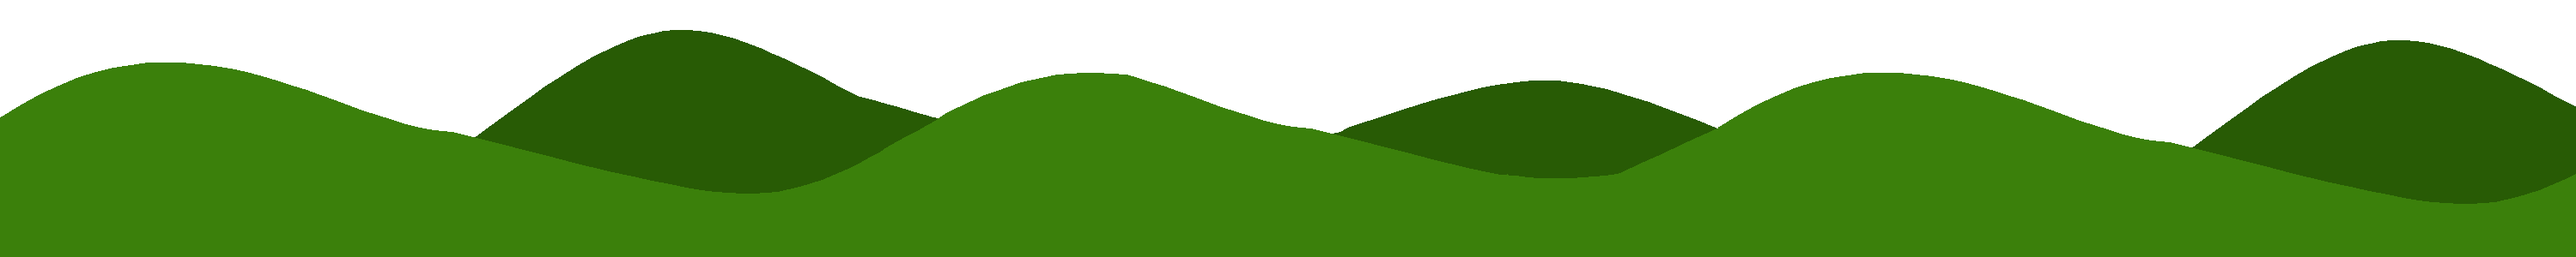
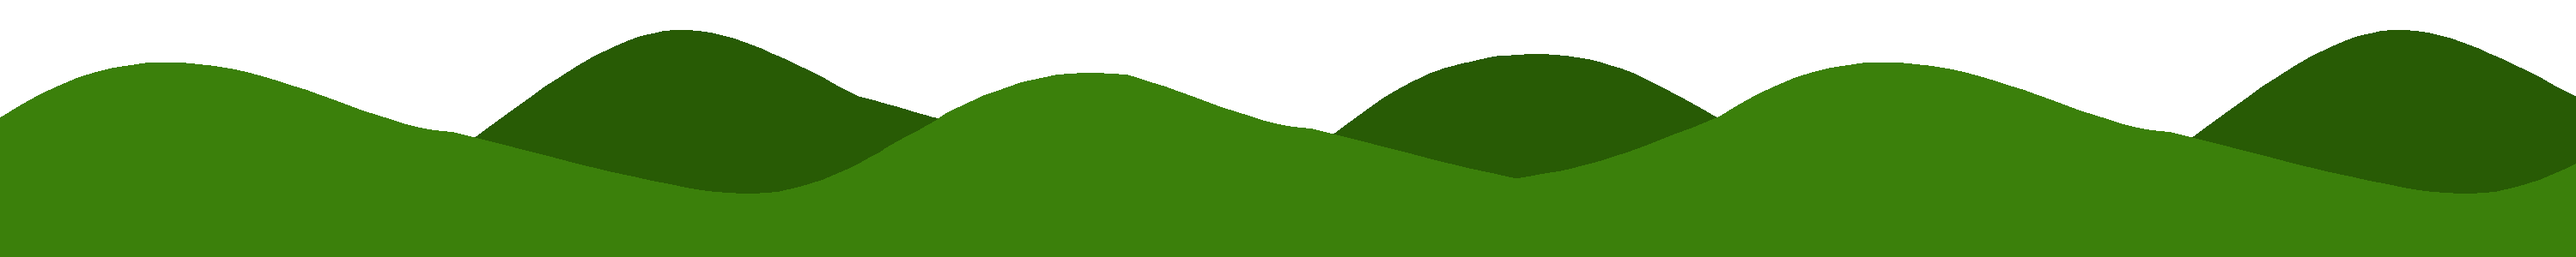
Adição de sprites do personagem e ajustes nos sprites do background

diff --git a/src/personagem.cpp b/src/personagem.cpp
@@ -11,9 +11,8 @@ Personagem::Personagem(float posX, float posY,ALLEGRO_BITMAP* bitmap1,ALLEGRO_BI
 };
 
 void Personagem::move_character(){
-
-    this->set_posX(this->get_posX()+get_velocityX());
-    this->set_posY(this->get_posY()+get_velocityY());
+    float dy = max((this->get_posY()+get_velocityY()),(float)0);
+    this->set_posY(dy);
 
 }
 
@@ -49,7 +48,7 @@ bool Personagem::checkCollision(Hitbox other_hitbox){
 void Personagem::render_object(){
     float rotation = min((get_velocityY()/jump_power)*(M_PI/4)*0.45,M_PI/2);
     
-    al_draw_rotated_bitmap(get_bitmap(),get_centerX(),get_centerY(),get_posX()+get_centerX(),get_posY()+get_centerY(),rotation,0);
+    al_draw_scaled_rotated_bitmap(get_bitmap(),get_centerX(),get_centerY(),get_posX()+get_centerX(),get_posY()+get_centerY(),1.5,1.5,rotation,0);
 }
 void Personagem::reset_position(float start_x, float start_y){
     set_posX(start_x);

diff --git a/src/main.cpp b/src/main.cpp
@@ -72,8 +72,8 @@ int main() {
     //================================================================================
     // Bloco de Carregamento de Assets
     //================================================================================
-    ALLEGRO_BITMAP* character_sprite = al_load_bitmap("assets/images/character_placeholder.png");
-    ALLEGRO_BITMAP* jumping_sprite = al_load_bitmap("assets/images/jumping_placeholder.png");
+    ALLEGRO_BITMAP* character_sprite = al_load_bitmap("assets/images/character.png");
+    ALLEGRO_BITMAP* jumping_sprite = al_load_bitmap("assets/images/character_jumping.png");
     ALLEGRO_BITMAP* ground_sprite = al_load_bitmap("assets/images/chao.png");
     ALLEGRO_BITMAP* upper_pipe_sprite = al_load_bitmap("assets/images/canocima.png");
     ALLEGRO_BITMAP* lower_pipe_sprite = al_load_bitmap("assets/images/canobaixo.png");
